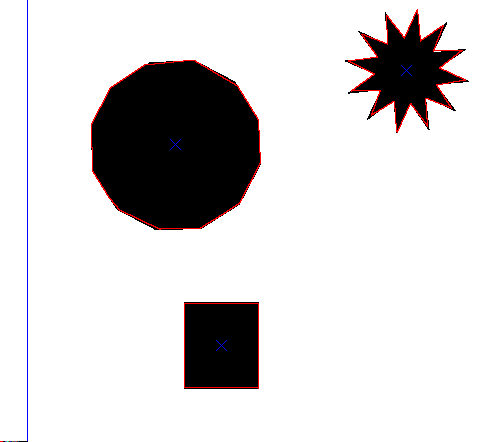
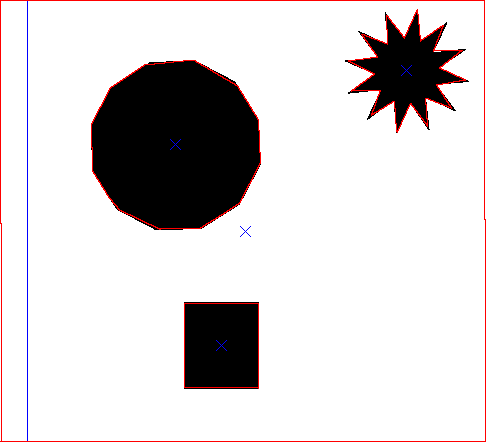
Dodano ramkę granicy dla obrazu (tło działa, ale nie idealnie).

Changed region(s): [[0.9877, 0.0, 1.0, 1.0], [0.0, 0.9706, 0.0309, 1.0], [0.0, 0.0, 0.0309, 0.0294]]

diff --git a/BitmapToVectorImageConverter/algorithms/processing/contours/psweeping.py b/BitmapToVectorImageConverter/algorithms/processing/contours/psweeping.py
@@ -29,6 +29,13 @@ def detect_contours(segments, mask):
 						contour = True
 						break
 			rmask[i,j] = contour
+        for j in range(0, width):
+            rmask[0,j] = True
+            rmask[height-1,j] = True
+
+        for i in range(0, height):
+            rmask[i,0] = True
+            rmask[i,width-1] = True
 
 	return rmask
 
@@ -65,18 +72,20 @@ def calculate_contour_lines(segments, cmask = None):
             q.append([i,j])
             c = 1
             s = segments[i,j]
-#            print ("Segment: {}".format(s))
+            print ("Segment: {}".format(s))
             queued[i,j] = True
 
             while c > 0:
                 print("")
                 (qy,qx) = q.popleft()
-#                print ("queue ({},{}), seg: {}".format(qy,qx, segments[qy,qx]))
+                print ("queue ({},{}),cmask: {} seg: {}".format(qy,qx, cmask[qy,qx], segments[qy,qx]))
                 c -= 1
                 for k in range(-1,2):
                     for l in range(-1,2):
-                        y = (qy+k)%height
-                        x = (qx+l)%width
+                        y = (qy+k)
+                        x = (qx+l)
+                        if x < 0 or y < 0 or x >= width or y >= height:
+                            continue
 
 #                        if cmask != None:
 #                            print ("cmask for ({},{}) ({},{}) - {}, s: {}, queued: {}".format(y,x, k, l,cmask[y,x], segments[y,x], queued[y,x]))

diff --git a/BitmapToVectorImageConverter/algorithms/segmentator.py b/BitmapToVectorImageConverter/algorithms/segmentator.py
@@ -68,10 +68,13 @@ doc.Width = SvgUnit(width)
 doc.Height = SvgUnit(height)
 g = SvgGroup()
 
-for seg in slines.keys():
+xlines = [k for (k,v) in slines.items()]
+xlines2 = sorted(xlines, key=lambda k: counts[k], reverse=True)
+
+for seg in xlines2:
     cx = colors[seg]
-    if seg == segments[0,0]:
-        continue
+#    if seg == segments[0,0]:
+#        continue
 
     if counts[seg] < 20:
         continue
